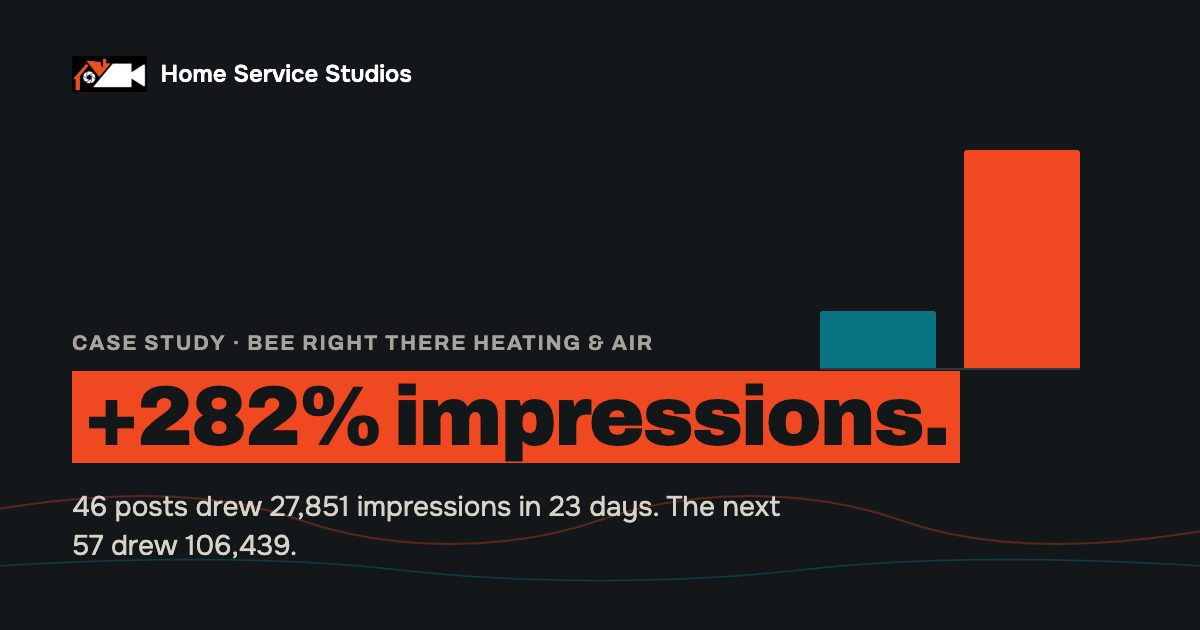
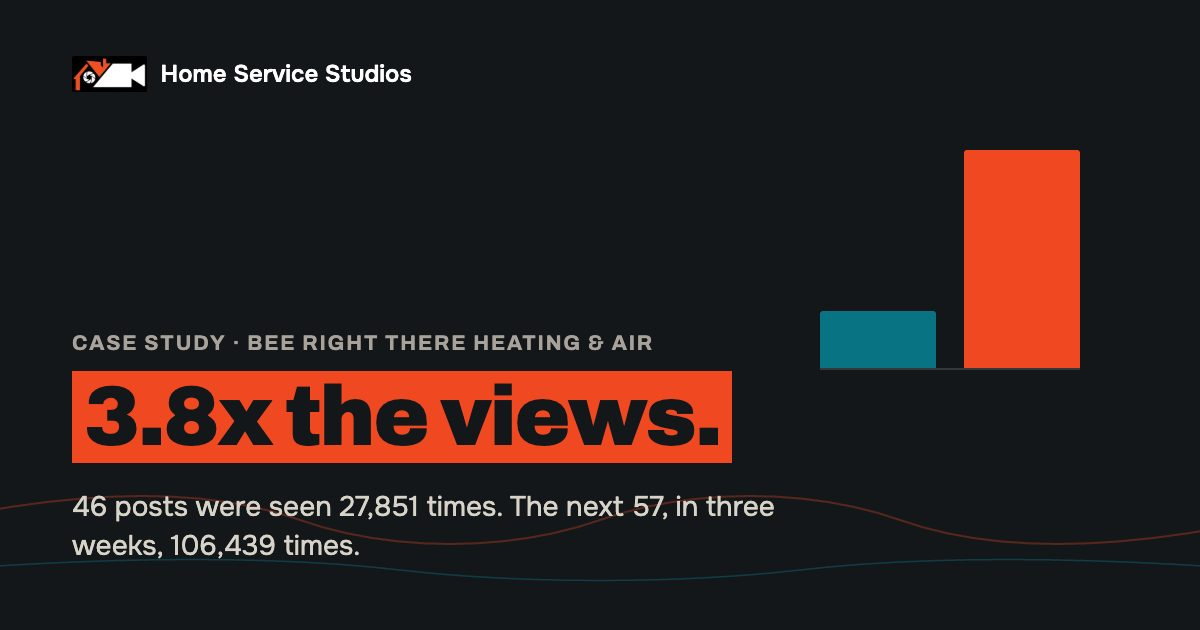
Say what the numbers mean: plain words on the new case pages
R12, owner request (supersedes the R4 copy for Bee Right There and iComfort
and the 4 Points card). "Times their posts were seen" instead of
"impressions", "likes, comments, shares and saves" instead of "organic
engagements". Every number is the owners'; the build asserts the multiples
(3.8x, 7.9x, 3.7x, 6.8x, 264,938, about 600 and 1,870 views a post).

- Bee Right There: H1 "Bee Right There. / Nearly 4x the reach in three
  weeks.", new intro, problem/changed/happened copy, stat row (3.8x times
  seen, 7.9x likes etc., 3.7x new followers, 983K one reel), a four-row
  before/after (posts, times seen, likes etc., new followers 21 vs 78)
  captioned "24% more posts. 3.8 times the views.", the three reels, a
  closing "What it did for them" and the source line (with the 2020 Census
  population). Card and meta lines updated; OG card now "3.8x the views."
- iComfort: H1 "iComfort. / 290 to 1,970 followers, no ads.", new intro and
  blocks, stat row (6.8x, 354, 265K, 100% organic), before/after, the five
  TikToks, closing; source unchanged.
- Case pages' three blocks are now labelled "The problem", "What we
  changed", "What happened" on every case (A1 and All Heart included) so
  the pages read alike; the close is "What it did for them".
- 4 Points card (four_points_card): 509K "Views on their best post, up from
  705", a real before/after table (eight posts combined, typical post, best
  post), the one line and the rounding note. proof_card and its dated-card
[…]

Changed region(s): [[0.0617, 0.573, 0.8017, 0.754], [0.0617, 0.7841, 0.6475, 0.9048]]

diff --git a/build_site.py b/build_site.py
@@ -1073,9 +1073,6 @@ CSS = """<style>
   .proof .pl{font-size:var(--f-micro);letter-spacing:.06em;text-transform:uppercase;
     color:var(--ink-3);font-family:var(--mono);}
   .proof p{margin:0;font-size:var(--f-body);color:var(--ink-2);line-height:1.55;}
-  .proof .when{margin-top:auto;padding-top:var(--s3);border-top:1px solid var(--line);
-    font-family:var(--display);font-variant-caps:all-small-caps;letter-spacing:.05em;
-    font-size:var(--f-sm);color:var(--cyan-text);}
 
   .grid{display:grid;grid-template-columns:repeat(auto-fill,minmax(288px,1fr));gap:var(--s5);}
   /* subheads inside a section (More work, the homepage spots row) */
@@ -1091,10 +1088,19 @@ CSS = """<style>
     .strip > .spot{flex:0 0 80%;scroll-snap-align:start;}
   }
   .proofs-one{background:none;}
-  @media(min-width:900px){.proofs-one{grid-template-columns:repeat(3,minmax(0,1fr));}}
   .proofs-one .proof{background:var(--ground-2);border-radius:var(--r-md);}
   /* --ink-3 on --ground-2 is 4.32:1; the small labels need --ink-2 here */
   .proofs-one .proof .who,.proofs-one .proof .pl{color:var(--ink-2);}
+  @media(min-width:900px){.proofs-one{grid-template-columns:minmax(0,2fr) minmax(0,1fr);}}
+  .fp{width:100%;border-collapse:collapse;margin:var(--s2) 0;font-size:var(--f-sm);}
+  .fp th,.fp td{text-align:left;padding:var(--s2) var(--s2) var(--s2) 0;
+    border-bottom:1px solid var(--line);vertical-align:top;}
+  .fp thead th{font-family:var(--display);font-variant-caps:all-small-caps;letter-spacing:.05em;
+    font-weight:700;color:var(--ink-2);}
+  .fp tbody th{font-weight:650;color:var(--ink);}
+  .fp td{color:var(--ink-2);font-variant-numeric:tabular-nums;}
+  .fp td:last-child{color:var(--ink);font-weight:650;}
+  .proof .fp-note{font-size:var(--f-sm);color:var(--ink-2);}
   .proof h4{margin:0;font-family:var(--display);font-size:var(--f-h4);font-weight:700;
     letter-spacing:var(--t-head);line-height:1.2;}
   .spot{background:var(--panel);border-radius:var(--r-md);
@@ -2313,16 +2319,17 @@ CASES = [
               "views, roughly 2.26 million views in a market of one million people."),
     dict(id="beerightthere", slug="bee-right-there", name="Bee Right There",
          full="Bee Right There Heating &amp; Air", og="og-bee-right-there.jpg",
-         vertical="Home services", metric="+282%", mlabel="Impressions in 23 days",
+         vertical="Home services", metric="3.8x", mlabel="Views in three weeks",
          still=None, logo=None,
-         tile_line="46 posts drew 27,851 impressions in 23 days. The next 57 drew 106,439.",
-         desc="Bee Right There Heating &amp; Air, an HVAC company in Atascadero, CA: impressions "
-              "up 282% in 23 days on 24% more posts, and reels that reached 982,880 views."),
+         tile_line="The views in three weeks, on 24% more posts.",
+         desc="Bee Right There Heating &amp; Air, an HVAC company in Atascadero, CA: posts seen "
+              "3.8 times as often within three weeks, on 24% more posts, and a reel at "
+              "982,880 views."),
     dict(id="icomfort", slug="icomfort", name="iComfort",
          full="iComfort Heating and Air Conditioning", og="og-icomfort.jpg",
          vertical="Home services", metric="6.8x", mlabel="Followers in under a year",
          still=None, logo="logo_icomfort.png",
-         tile_line="290 Instagram followers in March 2024, 1,970 by March 2025, all organic.",
+         tile_line="The followers in under a year, all organic.",
          desc="iComfort Heating and Air Conditioning, a family-owned HVAC company in San "
               "Fernando, CA: Instagram from 290 to 1,970 followers in under a year, all organic."),
     dict(id="allheart", og="og-allheart.jpg", slug="all-heart", name="All Heart",
@@ -2336,6 +2343,9 @@ CASES = [
 CASE_BY_ID = {c["id"]: c for c in CASES}
 # the stated multiples and rises must match the raw figures they come from
 assert round(106439 / 27851, 1) == 3.8 and round(57 / 46 - 1, 2) == 0.24
+assert round(6634 / 843, 1) == 7.9 and round(78 / 21, 1) == 3.7
+assert round(27851 / 46, -2) == 600 and round(106439 / 57, -1) == 1870
+assert 150282 + 49380 + 28327 + 20431 + 16518 == 264938
 assert round(1970 / 290, 1) == 6.8 and 1970 - 290 == 1680 and 508 - 154 == 354
 
 
@@ -2382,25 +2392,25 @@ CSI = {
            "1,100 shares on the lead reel. Audiences passed it along themselves, which is the "
            "premise working rather than the media budget."),
     "beerightthere": (
-        "Volume was not the problem. The account published 46 posts in the 23 days before we "
-        "started (9 to 31 Aug 2024), and together they drew 27,851 impressions. The posts were "
-        "there; nothing in them gave anyone a reason to stop scrolling.",
-        "Keep the cadence, change what goes out: reels built on moments every HVAC tech and "
-        "homeowner recognizes, from skipping the manual to ladder safety, written to be watched "
-        "to the end and passed along.",
-        "Over the next 23 days (1 to 23 Sep 2024), 57 posts drew 106,439 impressions, organic "
-        "engagements went from 843 to 6,634, and engagement per impression doubled from 3% to "
-        "6.2%. Followers went from 393 to 471. In early 2025 three reels passed 300,000 views."),
+        "In the three weeks before we started, they published 46 posts. Together those posts were "
+        "seen 27,851 times, about 600 views a post. The effort was there; the posts gave nobody a "
+        "reason to stop scrolling.",
+        "Not the schedule. The ideas. Every reel was built on a moment homeowners and techs "
+        "recognize, from skipping the manual to ladder safety, and written so people watch to "
+        "the end and send it to someone.",
+        "In the next three weeks, 57 posts were seen 106,439 times, about 1,870 views a post. "
+        "Likes, comments, shares and saves went from 843 to 6,634, and new followers from 21 to "
+        "78. Then, in January and February 2025, three reels passed 300,000 views each; the "
+        "biggest reached 982,880."),
     "icomfort": (
-        "In March 2024 the account had 154 posts and 290 followers. A homeowner checking the "
-        "company out before a call found a feed that looked quiet, the opposite of what twenty "
-        "years in the Valley should look like.",
-        "Post every day and put their own people in front of the camera: technicians explaining "
-        "real equipment in plain terms, the moments every tech knows, and the trends their "
-        "customers were already watching. The account went from 154 posts to 508 in under a year.",
-        "1,680 new followers in under a year, all organic, or 6.8 times the audience they started "
-        "with. A heat pump explainer from one of their technicians reached 150,282 views on "
-        "TikTok."),
+        "154 posts and 290 followers. A homeowner checking iComfort out before a call found a "
+        "company that looked inactive, the opposite of twenty years in the Valley.",
+        "Daily posting, led by their own people: technicians explaining real equipment in plain "
+        "terms, the moments every tech knows, and the trends their customers were already "
+        "watching.",
+        "In under a year the account grew from 290 followers to 1,970, all organic: nearly seven "
+        "times the audience. It went from 154 posts to 508. On TikTok, five of those posts alone "
+        "drew 264,938 views, led by a technician&#39;s heat pump explainer at 150,282."),
     "allheart": ("Fill a year of paid and organic inventory for a brand with no library and no "
                  "appetite for repeat shoot days.",
                  "Write one comic premise strong enough to sustain ten spots, then shoot the entire "
@@ -2411,9 +2421,9 @@ CSI = {
 
 def csi_block(cid):
     a, b, c = CSI[cid]
-    return (f'<div class="csi"><div><h3>The challenge</h3><p>{a}</p></div>'
-            f'<div><h3>The solution</h3><p>{b}</p></div>'
-            f'<div><h3>The impact</h3><p>{c}</p></div></div>')
+    return (f'<div class="csi"><div><h3>The problem</h3><p>{a}</p></div>'
+            f'<div><h3>What we changed</h3><p>{b}</p></div>'
+            f'<div><h3>What happened</h3><p>{c}</p></div></div>')
 
 
 def ops(rows):
@@ -2436,6 +2446,8 @@ def before_after(title, periods, rows):
     for label, x, y, chg in rows:
         if chg.endswith("%"):
             assert chg == f"+{round((y - x) / x * 100)}%", (label, chg)
+        elif chg.endswith("x"):
+            assert chg == f"{round(y / x, 1)}x", (label, chg)
         elif chg.startswith("+"):
             assert chg == f"+{y - x:,}", (label, chg)
         m = max(x, y)
@@ -2473,46 +2485,55 @@ CASE_PAGE = {
 {A1_REELS}
   </div>""", ops=""),
     "beerightthere": dict(
-        kind="Reach", roles=["Monthly program", "Short form"], tag="3.8 times the reach.",
-        lede="Bee Right There Heating &amp; Air is an HVAC company in Atascadero, on "
-             "California&#39;s Central Coast, in business since 2018. They were already posting "
-             "often. In the first 23 days after we took over, <strong>impressions rose 282% on "
-             "24% more posts</strong>, and later reels reached 982,880 views.",
-        ops=ops([("+282%", "Impressions"), ("+687%", "Organic engagements"),
-                 ("6.2%", "Engagement rate, up from 3%"), ("983K", "Views on one reel")]),
-        proof_head="Same cadence, different posts",
+        kind="Reach", roles=["Monthly program", "Short form"],
+        tag="Nearly 4x the reach in three weeks.",
+        lede="Bee Right There Heating &amp; Air, in Atascadero on California&#39;s Central Coast, "
+             "was already posting almost every day. Hardly anyone was watching. We changed what "
+             "they posted, not how often. In the first three weeks <strong>their posts were seen "
+             "nearly four times as often</strong>, and within months one reel passed 982,000 "
+             "views, for a company whose hometown has about 30,000 people.",
+        ops=ops([("3.8x", "Times their posts were seen"),
+                 ("7.9x", "Likes, comments, shares and saves"),
+                 ("3.7x", "New followers"), ("983K", "Views on one reel")]),
+        proof_head="Same schedule, different ideas",
         proof=before_after(
-            "Posts rose 24%. Impressions rose 282%.",
+            "24% more posts. 3.8 times the views.",
             ("9 to 31 Aug 2024", "1 to 23 Sep 2024"),
-            [("Posts", 46, 57, "+24%"), ("Impressions", 27851, 106439, "+282%"),
-             ("Organic engagements", 843, 6634, "+687%")])
+            [("Posts", 46, 57, "+24%"), ("Times seen", 27851, 106439, "3.8x"),
+             ("Likes, comments, shares and saves", 843, 6634, "7.9x"),
+             ("New followers", 21, 78, "3.7x")])
             + '\n  <h3 class="subhead">Three reels past 300,000 views</h3>\n  '
             + ops([("982,880", "Views, 12 Feb 2025"), ("316,814", "Views, 27 Jan 2025"),
                    ("316,402", "Views, 15 Jan 2025")]),
-        close="Posting more is the easy part. Bee Right There posted 24% more and reached nearly "
-              "four times as many people, because the posts were worth watching. The premise is "
-              "the part we are hired for.",
-        source="Figures from the account&#39;s own analytics for each period."),
+        close="A small-town HVAC company became one people pass around. For a company in a town "
+              "of about 30,000, a reel with nearly a million views is attention on a scale local "
+              "advertising rarely reaches, and every view carried the Bee Right There name.",
+        source="Figures from the account&#39;s own analytics for 9 to 31 Aug 2024 and 1 to 23 Sep "
+               "2024; reel views as reported in early 2025. Atascadero population: 29,773 "
+               "(2020 Census)."),
     "icomfort": dict(
-        kind="Audience", roles=["Monthly program", "Short form"], tag="290 to 1,970 followers.",
-        lede="iComfort Heating and Air Conditioning is a family-owned HVAC company in San "
-             "Fernando, California, serving the San Fernando Valley since 2004. Twenty years of "
-             "good work, and an Instagram account with 290 followers. In under a year of daily "
-             "posting <strong>it grew to 1,970, all of it organic</strong>.",
-        ops=ops([("290 to 1,970", "Instagram followers"), ("+1,680", "Organic, under a year"),
-                 ("354", "Posts in 50 weeks"), ("150K", "Views on the top TikTok")]),
-        proof_head="Under a year of daily posting",
+        kind="Audience", roles=["Monthly program", "Short form"],
+        tag="290 to 1,970 followers, no ads.",
+        lede="iComfort Heating and Air Conditioning has served the San Fernando Valley since 2004. "
+             "In March 2024 their Instagram had 290 followers and looked quiet. A year of daily "
+             "posts later <strong>it had 1,970 followers, all organic</strong>, a library of 354 "
+             "new posts, and a technician whose heat pump explainer reached 150,282 views.",
+        ops=ops([("6.8x", "Instagram followers, 290 to 1,970"),
+                 ("354", "New posts in under a year"), ("265K", "Views on five TikToks"),
+                 ("100%", "Organic growth, no paid boosts")]),
+        proof_head="A year of daily posts",
         proof=before_after(
-            "354 more posts, and 6.8 times the followers.",
+            "354 new posts. 6.8 times the followers.",
             ("27 Mar 2024", "11 Mar 2025"),
-            [("Posts", 154, 508, "+354"), ("Instagram followers", 290, 1970, "+1,680")])
+            [("Posts", 154, 508, "+354"), ("Instagram followers", 290, 1970, "6.8x")])
             + '\n  <h3 class="subhead">Five TikToks, Jul 2024 to Jan 2025</h3>\n  '
             + ops([("150,282", "TikTok views"), ("49,380", "TikTok views"),
                    ("28,327", "TikTok views"), ("20,431", "TikTok views"),
                    ("16,518", "TikTok views")]),
-        close="Followers are the people who chose to keep seeing a company&#39;s trucks, techs and "
-              "jobs in their feed. When their system fails, the name they reach for is one they "
-              "have watched for months. That recognition is what every package is built on.",
+        close="A twenty-year-old family business now looks like what it is, busy, expert and "
+              "still here, to anyone who checks before they call. 1,970 people chose to keep "
+              "seeing their trucks and techs every day, and when a system fails, iComfort is the "
+              "name they have watched for a year.",
         source="Figures from the account&#39;s own Instagram and TikTok, 27 Mar 2024 to "
                "11 Mar 2025."),
     "allheart": dict(
@@ -2534,19 +2555,27 @@ CASE_PAGE = {
 # it, so the card shows none. Bee Right There and iComfort, which used to sit beside
 # it in a "More results" block, are full case studies since R4.
 # 4 Points is a single short-form result, shown in More work rather than as a case.
-FOUR_POINTS = dict(client="4 Points", who="Home services",
-                   metric="509K", mlabel="Views on one post",
-                   line="Before us, eight posts drew 235 to 705 views each. In a sample of the same "
-                        "size since, posts reached 509K, 89.4K, 24.6K and 6,096 views.",
-                   when="")
+FOUR_POINTS = dict(client="4 Points", who="Home services", metric="509K",
+                   mlabel="Views on their best post, up from 705",
+                   rows=[("Eight posts, combined", "3,543 views", "about 636,000 views"),
+                         ("Typical post", "about 430 views", "about 4,300 views"),
+                         ("Best post", "705 views", "509,000 views")],
+                   line="Same account, same kind of business, about ten times the views on a "
+                        "typical post.",
+                   note="After figures are rounded from the account&#39;s own counts.")
 
 
-def proof_card(x, h="h3"):
-    when = f'<p class="when">{x["when"]}</p>' if x["when"] else ""
+def four_points_card(x, h="h4"):
+    """The 4 Points result (R12): a small card, not a case, with a real two-column
+    before/after table so it reads correctly to a screen reader too."""
+    rows = "".join(f'<tr><th scope="row">{k}</th><td>{a}</td><td>{b}</td></tr>'
+                   for k, a, b in x["rows"])
     return (f'<article class="proof"><{h}>{x["client"]}</{h}><p class="who">{x["who"]}</p>'
             f'<p class="pm"><span class="pfig">{x["metric"]}</span>'
             f'<span class="pl">{x["mlabel"]}</span></p>'
-            f'<p>{x["line"]}</p>{when}</article>')
+            f'<table class="fp"><thead><tr><td></td><th scope="col">Before us</th>'
+            f'<th scope="col">After</th></tr></thead><tbody>{rows}</tbody></table>'
+            f'<p>{x["line"]}</p><p class="fp-note">{x["note"]}</p></article>')
 
 
 # More work (R3, 2026-10-06): Handyman Dan is no longer a case study, by the
@@ -2564,7 +2593,7 @@ MORE_WORK = f"""<section id="more-work"><div class="wrap">
   </div>
   <h3 class="subhead">One more short-form result</h3>
   <div class="proofs proofs-one">
-{proof_card(FOUR_POINTS, "h4")}
+{four_points_card(FOUR_POINTS)}
   </div>
 </div></section>"""
 
@@ -3426,7 +3455,7 @@ def case_page(i):
     pills = "".join(f'<span class="pill">{r}</span>' for r in d["roles"])
     why = ""
     if d.get("close"):
-        why = (f'<div class="case-why"><p class="eyebrow">Why it matters</p>'
+        why = (f'<div class="case-why"><p class="eyebrow">What it did for them</p>'
                f'<p class="case-close">{d["close"]}</p>'
                + (f'<p class="case-src">{d["source"]}</p>' if d.get("source") else "")
                + '</div>')
